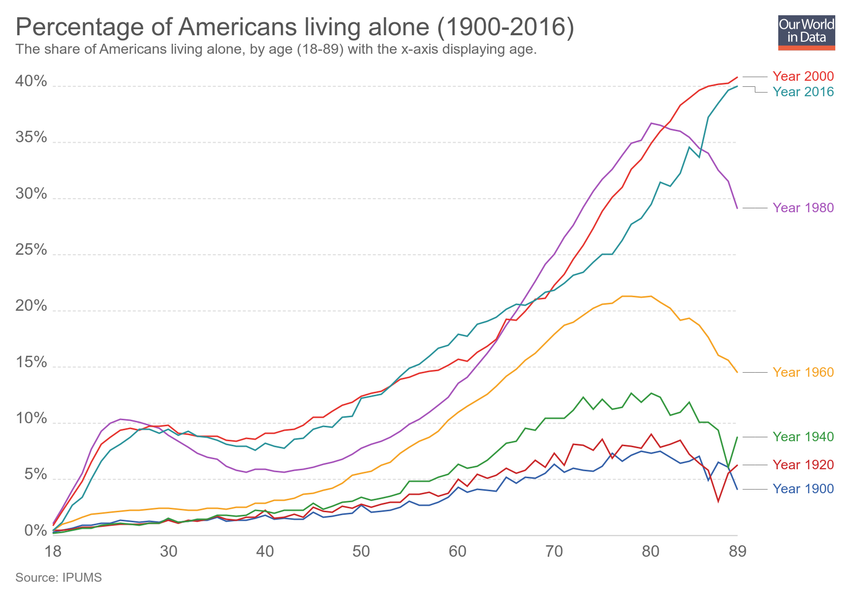
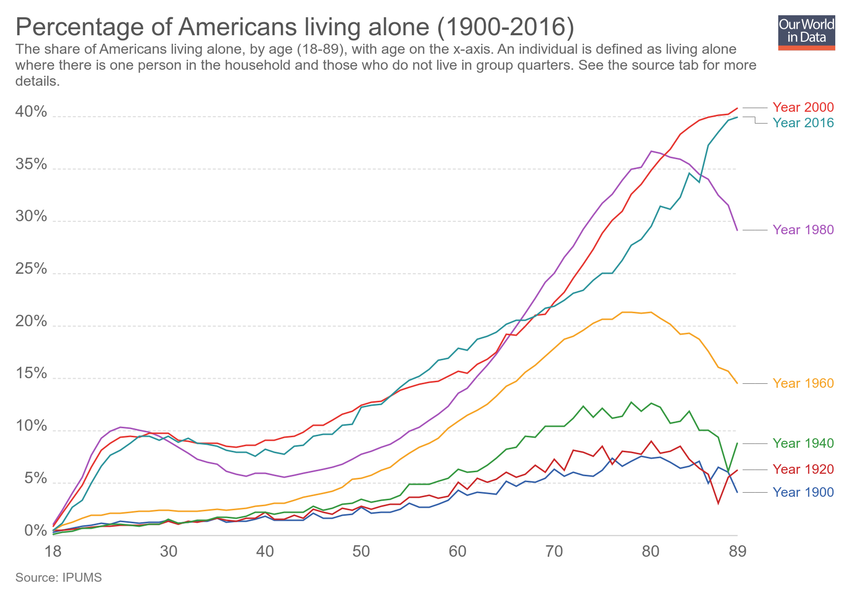
Updating chart percentage-of-americans-living-alone-by-year

diff --git a/grapher/percentage-of-americans-living-alone-by-year.html b/grapher/percentage-of-americans-living-alone-by-year.html
@@ -1,4 +1,4 @@
-<!doctype html><html><head><meta name="viewport" content="width=device-width, initial-scale=1" /><title>Percentage of Americans living alone (1900-2016) - Our World in Data</title><meta name="description" content="The share of Americans living alone, by age (18-89) with the x-axis displaying age." /><link rel="canonical" href="https://ourworldindata.org/grapher/percentage-of-americans-living-alone-by-year" /><meta property="fb:app_id" content="1149943818390250" /><meta property="og:url" content="https://ourworldindata.org/grapher/percentage-of-americans-living-alone-by-year" /><meta property="og:title" content="Percentage of Americans living alone (1900-2016)" /><meta property="og:description" content="The share of Americans living alone, by age (18-89) with the x-axis displaying age." /><meta property="og:image" content="https://ourworldindata.org/grapher/exports/percentage-of-americans-living-alone-by-year.png?v=6" /><meta property="og:image:width" content="850" /><meta property="og:image:height" content="600" /><meta property="og:site_name" content="Our World in Data" /><meta name="twitter:card" content="summary_large_image" /><meta name="twitter:site" content="@OurWorldInData" /><meta name="twitter:creator" content="@OurWorldInData" /><meta name="twitter:title" content="Percentage of Americans living alone (1900-2016)" /><meta name="twitter:description" content="The share of Americans living alone, by age (18-89) with the x-axis displaying age." /><meta name="twitter:image" content="https://ourworldindata.org/grapher/exports/percentage-of-americans-living-alone-by-year.png?v=6" /><style>
+<!doctype html><html><head><meta name="viewport" content="width=device-width, initial-scale=1" /><title>Percentage of Americans living alone (1900-2016) - Our World in Data</title><meta name="description" content="The share of Americans living alone, by age (18-89), with age on the x-axis. An individual is defined as living alone where there is one person in the household and those who do not live in group quarters. See the source tab for more details." /><link rel="canonical" href="https://ourworldindata.org/grapher/percentage-of-americans-living-alone-by-year" /><meta property="fb:app_id" content="1149943818390250" /><meta property="og:url" content="https://ourworldindata.org/grapher/percentage-of-americans-living-alone-by-year" /><meta property="og:title" content="Percentage of Americans living alone (1900-2016)" /><meta property="og:description" content="The share of Americans living alone, by age (18-89), with age on the x-axis. An individual is defined as living alone where there is one person in the household and those who do not live in group quarters. See the source tab for more details." /><meta property="og:image" content="https://ourworldindata.org/grapher/exports/percentage-of-americans-living-alone-by-year.png?v=7" /><meta property="og:image:width" content="850" /><meta property="og:image:height" content="600" /><meta property="og:site_name" content="Our World in Data" /><meta name="twitter:card" content="summary_large_image" /><meta name="twitter:site" content="@OurWorldInData" /><meta name="twitter:creator" content="@OurWorldInData" /><meta name="twitter:title" content="Percentage of Americans living alone (1900-2016)" /><meta name="twitter:description" content="The share of Americans living alone, by age (18-89), with age on the x-axis. An individual is defined as living alone where there is one person in the household and those who do not live in group quarters. See the source tab for more details." /><meta name="twitter:image" content="https://ourworldindata.org/grapher/exports/percentage-of-americans-living-alone-by-year.png?v=7" /><style>
         html, body {
             height: 100%;
             margin: 0;
@@ -20,8 +20,8 @@
         }
     </style><noscript><style>
                     figure { display: none !important; }
-                </style></noscript><link rel="stylesheet" href="https://ourworldindata.org/grapher/assets/commons.bundle.0187c87ba84a83fbad86.css" /><link rel="preload" href="/grapher/data/variables/97903.json?v=6" as="fetch" crossorigin /></head><body class="singleChart"><figure data-grapher-src="/grapher/percentage-of-americans-living-alone-by-year"></figure><noscript id="fallback"><img src="/grapher/exports/percentage-of-americans-living-alone-by-year.svg" /><p>Interactive visualization requires JavaScript</p></noscript><script src="https://cdn.polyfill.io/v2/polyfill.min.js?features=es6,fetch"></script><script src="https://ourworldindata.org/grapher/assets/commons.bundle.0187c87ba84a83fbad86.js"></script><script src="https://ourworldindata.org/grapher/assets/charts.bundle.0187c87ba84a83fbad86.js"></script><script>
-        var jsonConfig = {"id":2995,"map":{"projection":"World","colorSchemeLabels":[],"colorSchemeValues":[],"customNumericColors":[],"customCategoryColors":{},"customCategoryLabels":{},"customHiddenCategories":{}},"tab":"chart","slug":"percentage-of-americans-living-alone-by-year","type":"LineChart","title":"Percentage of Americans living alone (1900-2016)","xAxis":{"scaleType":"linear"},"yAxis":{"min":0,"scaleType":"linear"},"version":6,"subtitle":"The share of Americans living alone, by age (18-89) with the x-axis displaying age.","hasMapTab":false,"stackMode":"absolute","dimensions":[{"display":{},"property":"y","variableId":97903}],"entityType":"year","hasChartTab":true,"isPublished":true,"selectedData":[{"index":0,"entityId":37978},{"index":0,"entityId":37979},{"index":0,"entityId":37980},{"index":0,"entityId":37981},{"index":0,"entityId":37982},{"index":0,"entityId":37983},{"index":0,"entityId":37984}],"addCountryMode":"add-country"};
+                </style></noscript><link rel="stylesheet" href="https://ourworldindata.org/grapher/assets/commons.bundle.0187c87ba84a83fbad86.css" /><link rel="preload" href="/grapher/data/variables/97903.json?v=7" as="fetch" crossorigin /></head><body class="singleChart"><figure data-grapher-src="/grapher/percentage-of-americans-living-alone-by-year"></figure><noscript id="fallback"><img src="/grapher/exports/percentage-of-americans-living-alone-by-year.svg" /><p>Interactive visualization requires JavaScript</p></noscript><script src="https://cdn.polyfill.io/v2/polyfill.min.js?features=es6,fetch"></script><script src="https://ourworldindata.org/grapher/assets/commons.bundle.0187c87ba84a83fbad86.js"></script><script src="https://ourworldindata.org/grapher/assets/charts.bundle.0187c87ba84a83fbad86.js"></script><script>
+        var jsonConfig = {"id":2995,"map":{"projection":"World","colorSchemeLabels":[],"colorSchemeValues":[],"customNumericColors":[],"customCategoryColors":{},"customCategoryLabels":{},"customHiddenCategories":{}},"tab":"chart","slug":"percentage-of-americans-living-alone-by-year","type":"LineChart","title":"Percentage of Americans living alone (1900-2016)","xAxis":{"scaleType":"linear"},"yAxis":{"min":0,"scaleType":"linear"},"version":7,"subtitle":"The share of Americans living alone, by age (18-89), with age on the x-axis. An individual is defined as living alone where there is one person in the household and those who do not live in group quarters. See the source tab for more details.","hasMapTab":false,"stackMode":"absolute","dimensions":[{"display":{},"property":"y","variableId":97903}],"entityType":"year","hasChartTab":true,"isPublished":true,"selectedData":[{"index":0,"entityId":37978},{"index":0,"entityId":37979},{"index":0,"entityId":37980},{"index":0,"entityId":37981},{"index":0,"entityId":37982},{"index":0,"entityId":37983},{"index":0,"entityId":37984}],"addCountryMode":"add-country"};
         var figure = document.getElementsByTagName("figure")[0];
         try {
             window.App = {};
